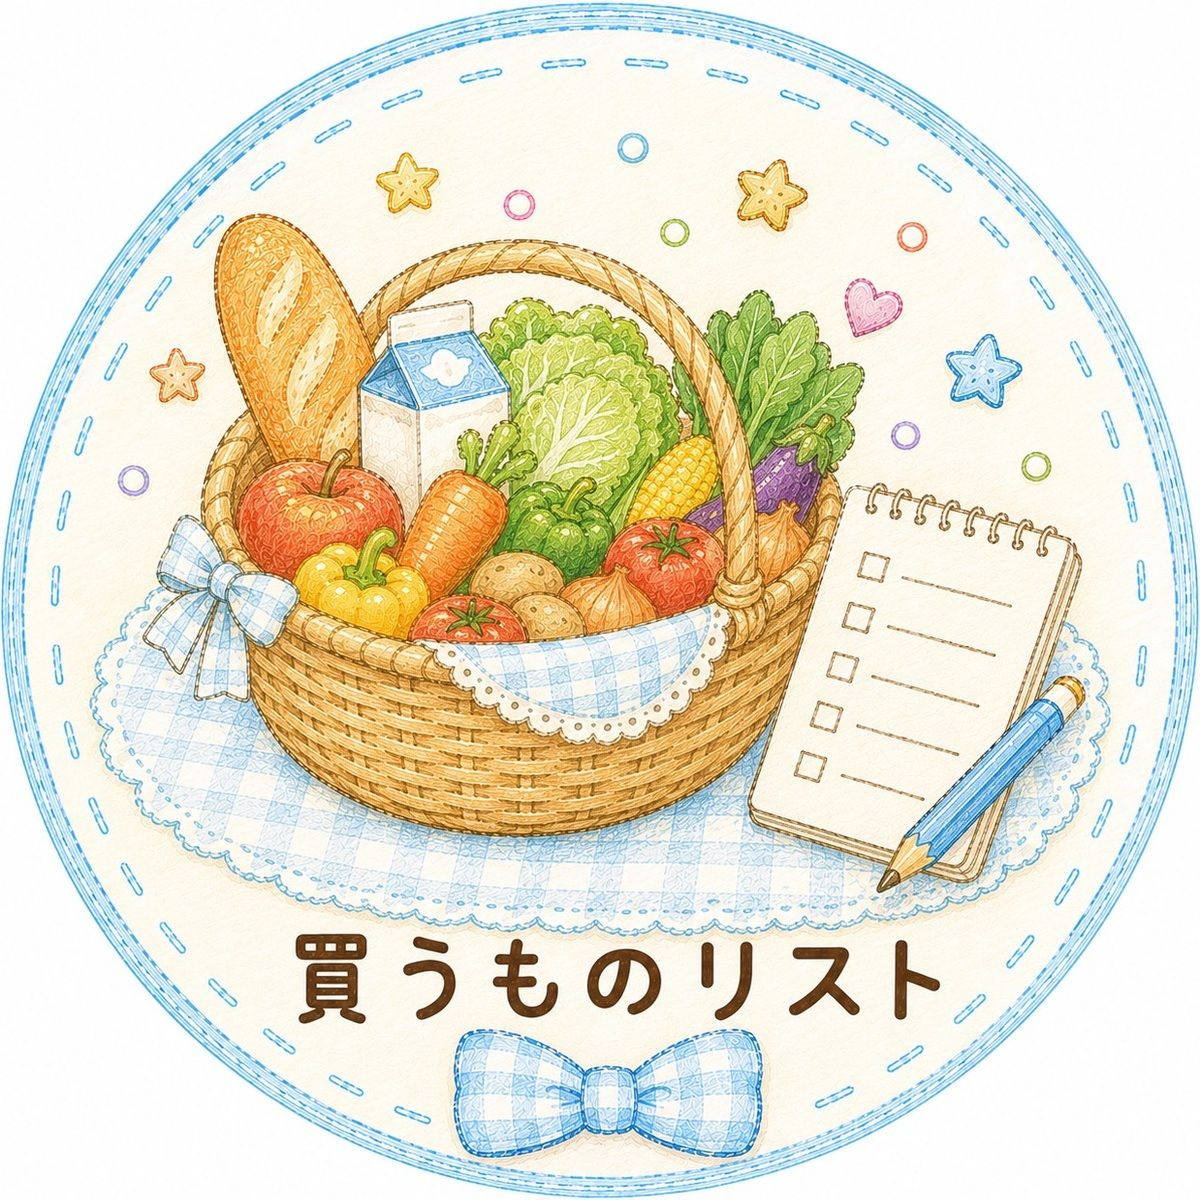
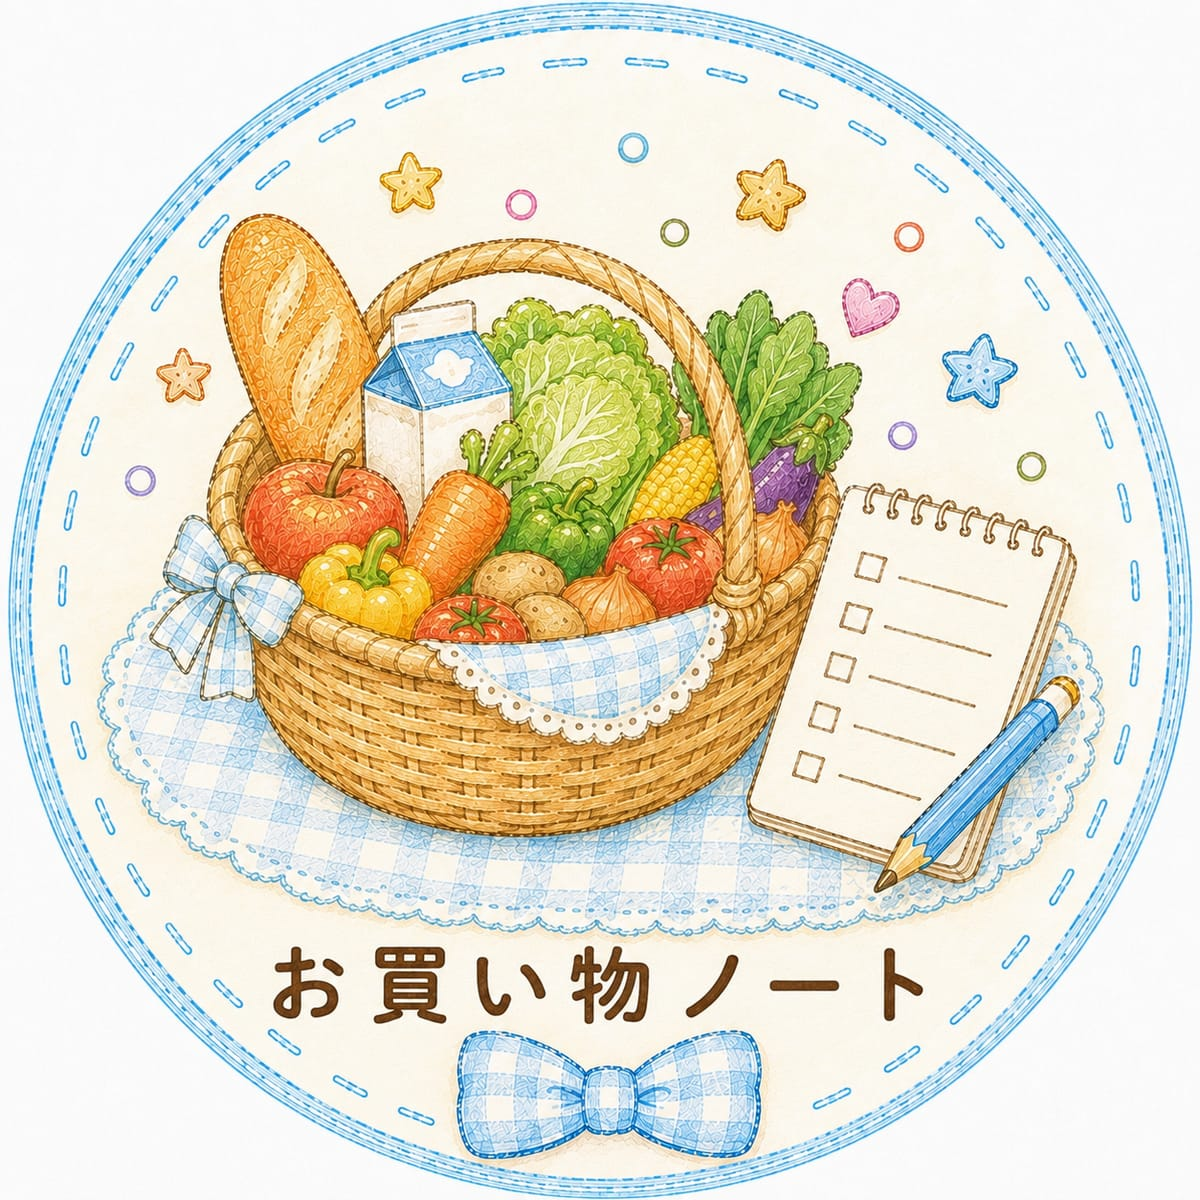
Swap in お買い物ノート art for the shopping-list badge and button
ひなた redrew both assets that had 買うものリスト baked into the drawing:

- title-menu-badge-shopping-list.jpg: replaced with the new お買い物ノート badge,
  resized to the 1200x1200 the other title badges use
- shopping-list-button.jpg -> .png: the new button art is trimmed to its pill
  bbox and kept as a transparent PNG (cleaner soft edge than the old white-corner
  JPG). Aspect ratio constant updated 1481/173 -> 1200/186; require path .jpg -> .png

Claude-Session: https://claude.ai/code/session_012JpPopTZaNe43yLsa4rM8U

diff --git a/src/app/decided-menus/index.tsx b/src/app/decided-menus/index.tsx
@@ -19,8 +19,8 @@ const BACKGROUND_DAY = require('@/assets/images/menu/decided-menus-bg.jpg');
 const BACKGROUND_NIGHT = require('@/assets/images/menu/decided-menus-bg-night.jpg');
 const SPEECH_BUBBLE_IMAGE = require('@/assets/images/meal-log/speech-bubble-cloud.png');
 const SPEECH_BUBBLE_ASPECT_RATIO = 1398 / 1125;
-const SHOPPING_MEMO_BUTTON_IMAGE = require('@/assets/images/menu/shopping-list-button.jpg');
-const SHOPPING_MEMO_BUTTON_ASPECT_RATIO = 1481 / 173;
+const SHOPPING_MEMO_BUTTON_IMAGE = require('@/assets/images/menu/shopping-list-button.png');
+const SHOPPING_MEMO_BUTTON_ASPECT_RATIO = 1200 / 186;
 const PREV_BUTTON_IMAGE = require('@/assets/images/menu/decided-menus-prev-button.png');
 const PREV_BUTTON_ASPECT_RATIO = 505 / 237;
 const NEXT_BUTTON_IMAGE = require('@/assets/images/menu/decided-menus-next-button.png');
@@ -185,8 +185,8 @@ const styles = StyleSheet.create({
   shoppingMemoButton: {
     width: '100%',
     aspectRatio: SHOPPING_MEMO_BUTTON_ASPECT_RATIO,
-    // The art is trimmed tight to its pill shape but still has faint white corner
-    // triangles outside the rounded ends; clipping to a stadium radius crops them away.
+    // The art is trimmed tight to its pill shape (transparent outside the rounded
+    // ends); clipping to a stadium radius keeps the soft alpha edge crisp.
     borderRadius: 9999,
     overflow: 'hidden',
   },
